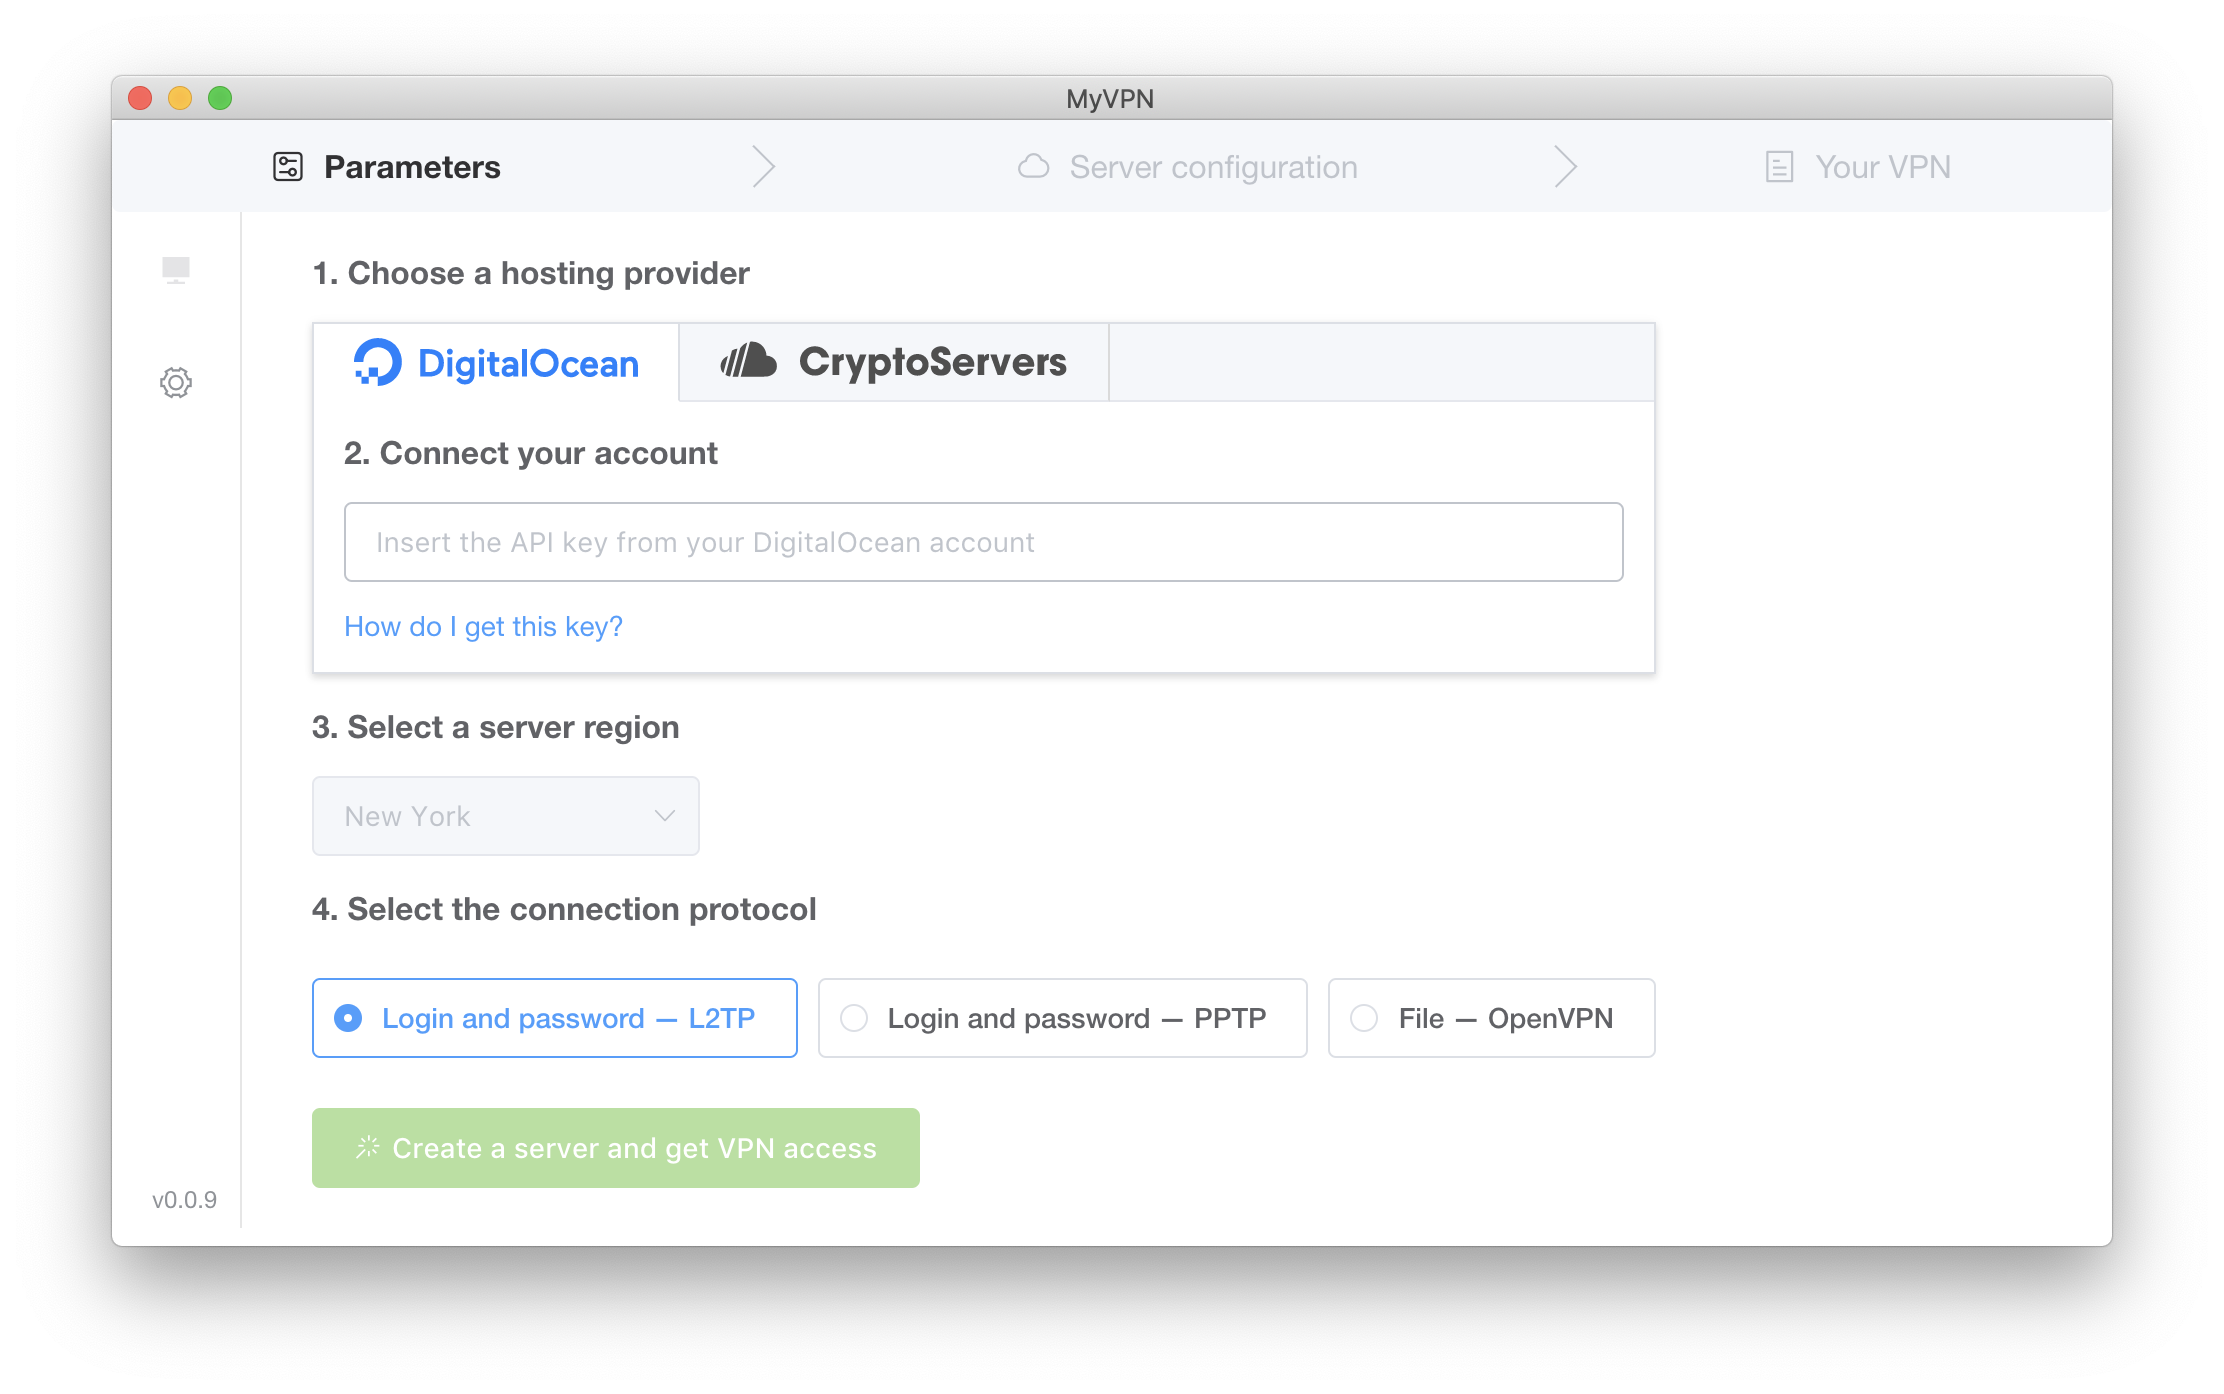
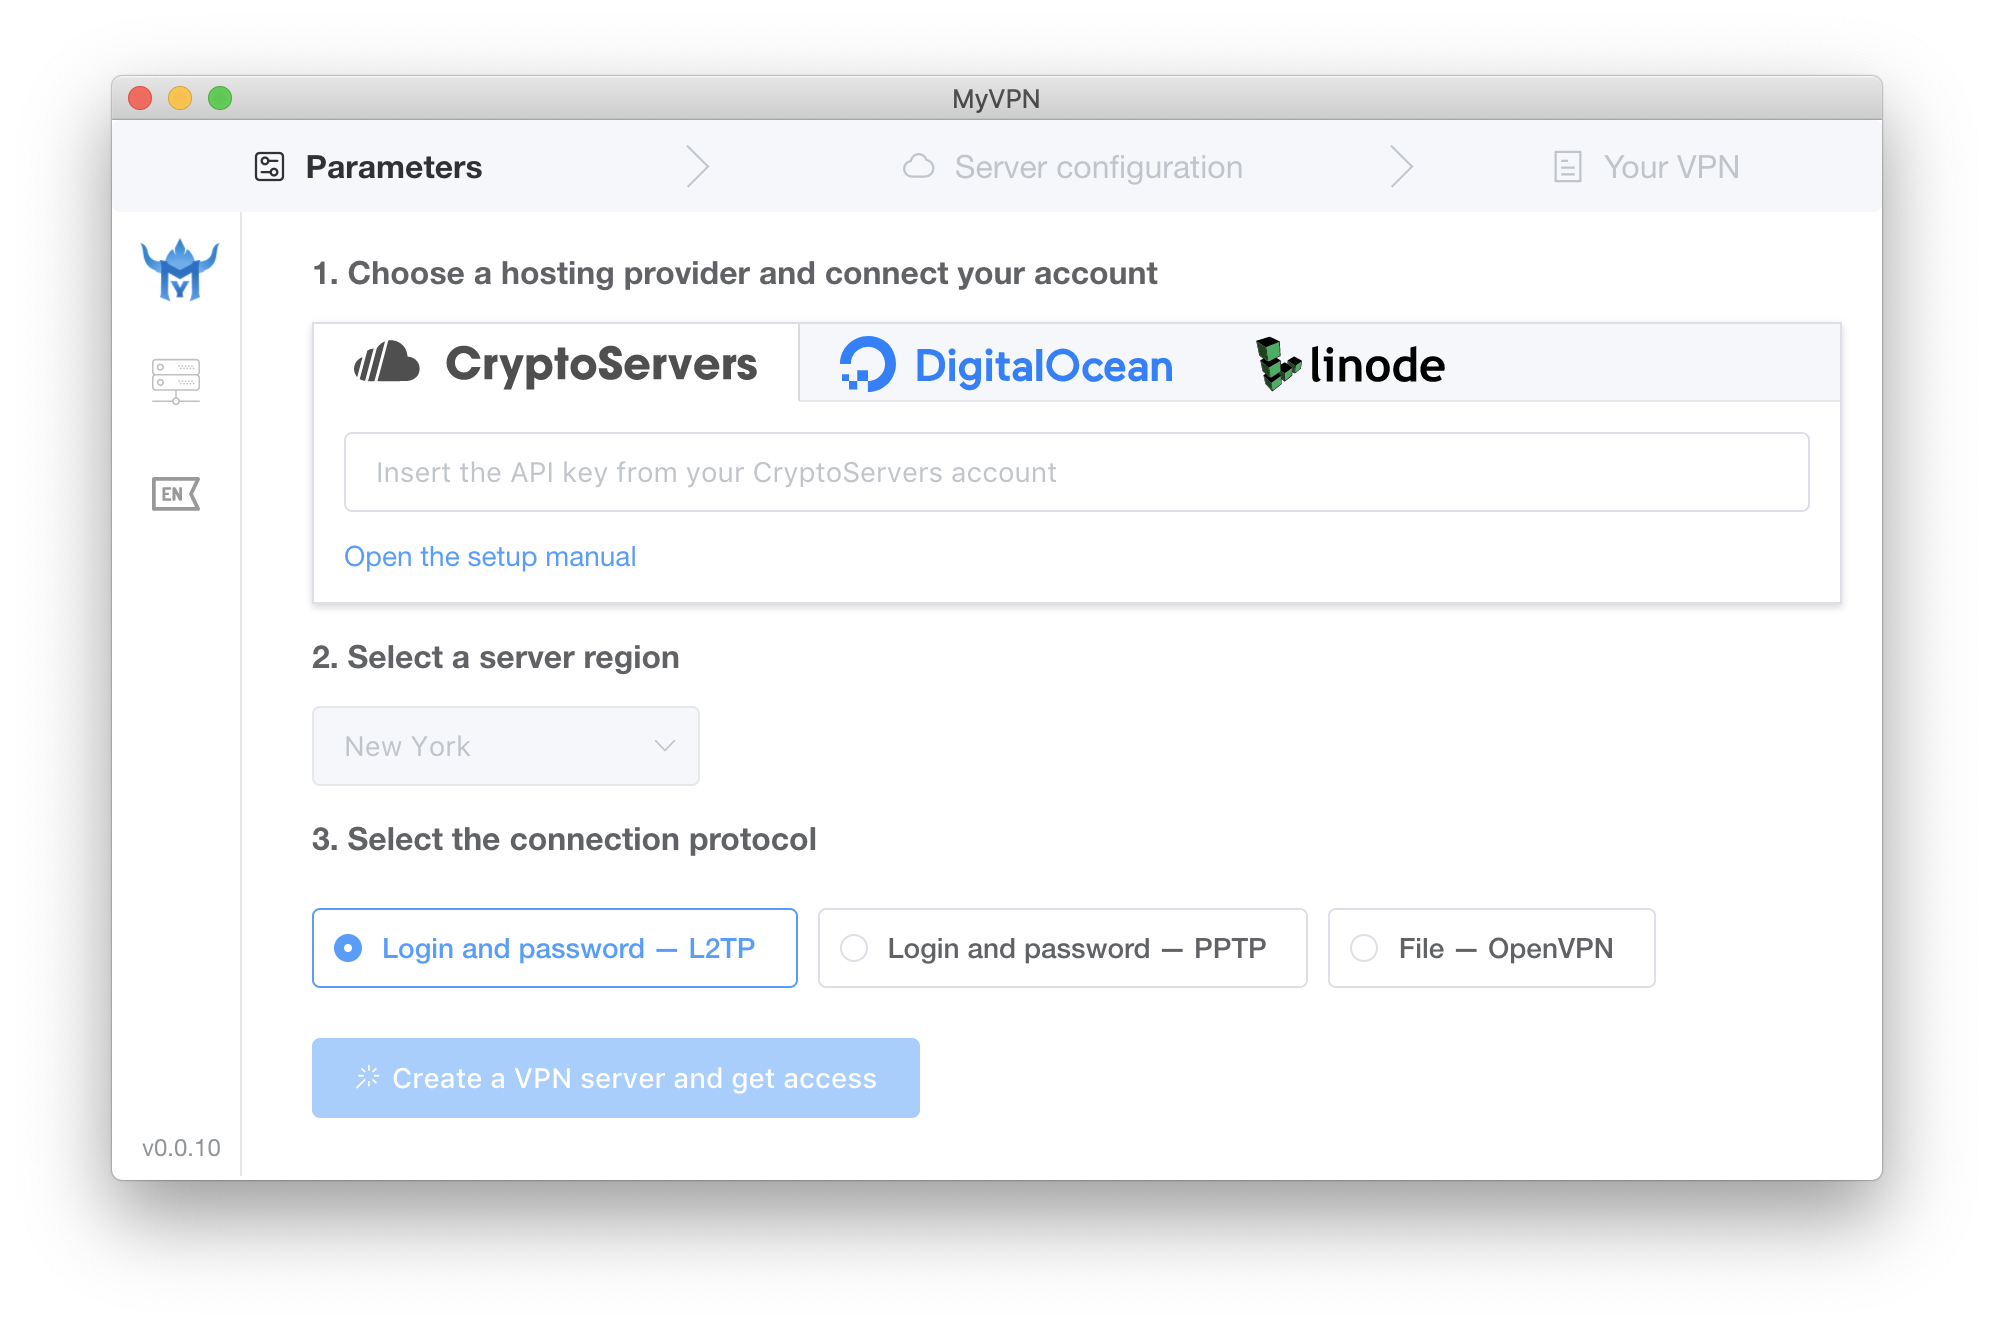
update preview

diff --git a/README.md b/README.md
@@ -13,10 +13,10 @@ Open source desktop application for the personal VPN server.
 
 ### Providers
 
+* [CryptoServers](https://cryptoservers.net/)
 * [DigitalOcean](https://www.digitalocean.com/)
-* [CryptoServers](https://cryptoservers.net/) - accepted Bitcoin
+* [Linode](https://linode.com/)
 
-We plan to expand the list!
 
 ### VPN protocols
 
